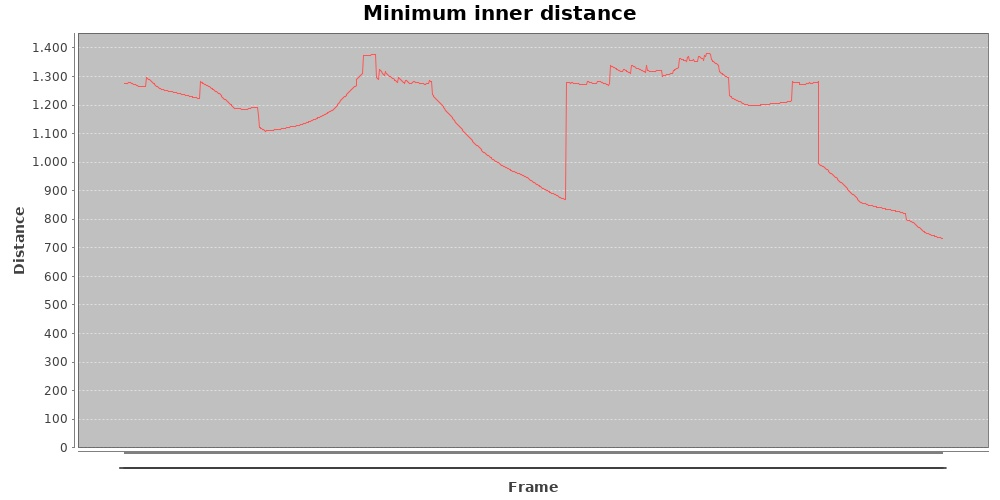
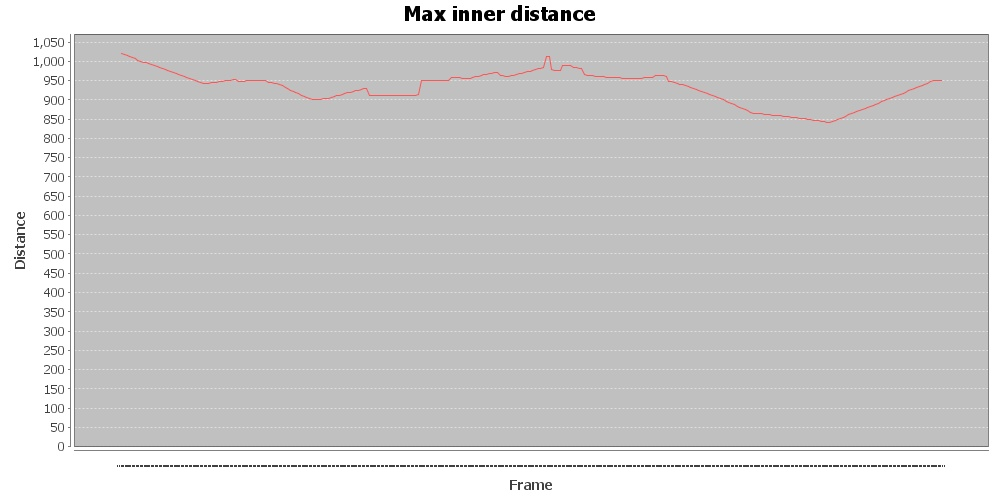
Fix chart label and make plotting optional

diff --git a/boids/src/main/kotlin/com/boids/Sketch.kt b/boids/src/main/kotlin/com/boids/Sketch.kt
@@ -4,6 +4,7 @@ import com.boids.Settings.FLOCK_SIZE
 import com.boids.Settings.MAX_FORCE
 import com.boids.Settings.MAX_SPEED
 import com.boids.Settings.ALIGNMENT_WEIGHT
+import com.boids.Settings.CHART
 import com.boids.Settings.COHESION_WEIGHT
 import com.boids.Settings.METRICS_CHARTING_RATE
 import com.boids.Settings.SEPARATION_WEIGHT
@@ -36,7 +37,6 @@ class Sketch(private val boidsCount: Int) : PApplet() {
     private lateinit var controller: ControlP5
 
     private val flock = Flock()
-    private var chartingRate = 0
     private var maxForce: Float = MAX_FORCE
     private var maxSpeed: Float = MAX_SPEED
 
@@ -50,6 +50,8 @@ class Sketch(private val boidsCount: Int) : PApplet() {
     private var showPerceptionRadius: Boolean = SHOW_PERCEPTION_RADIUS
     private var showSeparationRadius: Boolean = SHOW_SEPARATION_RADIUS
     private var showForces: Boolean = SHOW_FORCES
+
+    private var chartingRate = 0
 
     override fun settings() {
         size(displayWidth / 2, displayHeight / 2)
@@ -135,11 +137,13 @@ class Sketch(private val boidsCount: Int) : PApplet() {
         text("%.0fFPS".format(frameRate), 5f, 20f)
         flock.run()
 
-        if (this.chartingRate > METRICS_CHARTING_RATE) {
-            this.chartingRate = 0
-            MetricsExecutor.plot()
+        if (CHART) {
+            this.chartingRate++
+            if (this.chartingRate > METRICS_CHARTING_RATE) {
+                this.chartingRate = 0
+                MetricsExecutor.plot()
+            }
         }
-        this.chartingRate++
     }
 
     override fun mousePressed() {

diff --git a/boids/src/main/kotlin/com/boids/metrics/MaxDistance.kt b/boids/src/main/kotlin/com/boids/metrics/MaxDistance.kt
@@ -8,7 +8,7 @@ import org.jfree.data.category.DefaultCategoryDataset
 import java.io.File
 
 object MaxDistance {
-    val samples: MutableList<Float> = ArrayList()
+    private val samples: MutableList<Float> = ArrayList()
 
     fun sample(boids: List<Sketch.Boid>) {
         val maxDistance = (0 until boids.size - 1).map { i ->
@@ -31,7 +31,7 @@ object MaxDistance {
         }
 
         val chart = ChartFactory.createLineChart(
-            "Minimum inner distance",
+            "Max inner distance",
             "Frame",
             "Distance",
             dataset,
@@ -44,5 +44,4 @@ object MaxDistance {
         val lineChart = File("metrics/Max.jpeg")
         ChartUtilities.saveChartAsJPEG(lineChart, chart, 1000, 500)
     }
-
 }

diff --git a/boids/src/main/kotlin/com/boids/metrics/MinimumDistance.kt b/boids/src/main/kotlin/com/boids/metrics/MinimumDistance.kt
@@ -8,7 +8,7 @@ import org.jfree.data.category.DefaultCategoryDataset
 import java.io.File
 
 object MinimumDistance {
-    val samples: MutableList<Float> = ArrayList()
+    private val samples: MutableList<Float> = ArrayList()
 
     fun sample(boids: List<Sketch.Boid>) {
         val minDistance = (0 until boids.size - 1).map { i ->

diff --git a/boids/src/main/kotlin/com/boids/Settings.kt b/boids/src/main/kotlin/com/boids/Settings.kt
@@ -21,5 +21,6 @@ object Settings {
     const val SHOW_SEPARATION_RADIUS = false
     const val SHOW_FORCES = false
 
+    const val CHART = false
     const val METRICS_CHARTING_RATE = 300
 }

diff --git a/boids/src/main/kotlin/com/boids/metrics/MetricsExecutor.kt b/boids/src/main/kotlin/com/boids/metrics/MetricsExecutor.kt
@@ -2,7 +2,6 @@ package com.boids.metrics
 
 import com.boids.Sketch
 
-
 object MetricsExecutor {
     fun run(boids: List<Sketch.Boid>) {
         MinimumDistance.sample(boids)
